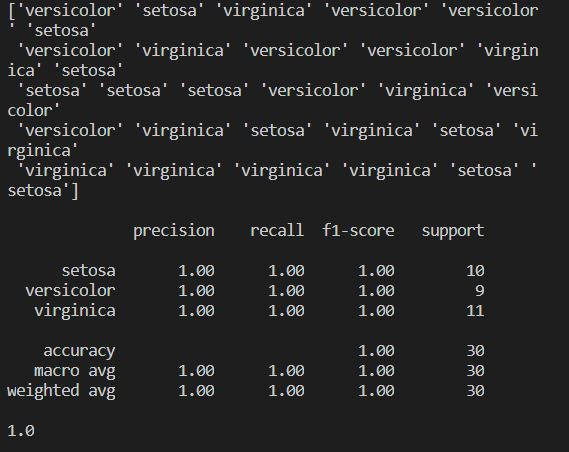
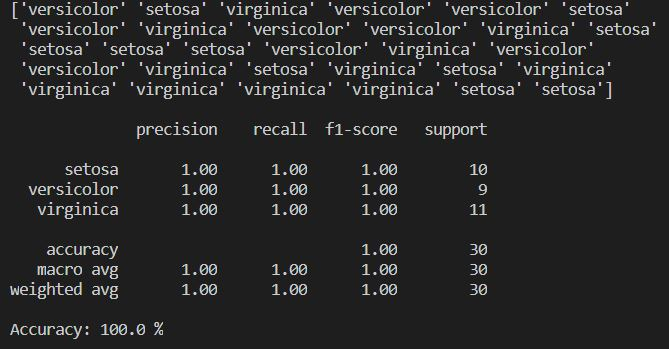
accuracy

diff --git a/ml.py b/ml.py
@@ -8,6 +8,7 @@ from sklearn.linear_model import LogisticRegression
 from sklearn.metrics import classification_report
 from sklearn.metrics import accuracy_score
 from sklearn.model_selection import train_test_split
+from sklearn import metrics
 
 
 #Reading the CSV files and passing the filename  to a variable named iris.
@@ -85,4 +86,4 @@ print(predictions)
 print()
 # precision, recall, f1-score
 print( classification_report(y_test, predictions) )
-print( accuracy_score(y_test, predictions))
+print("Accuracy:",(accuracy_score(y_test, predictions)*100), "%")
